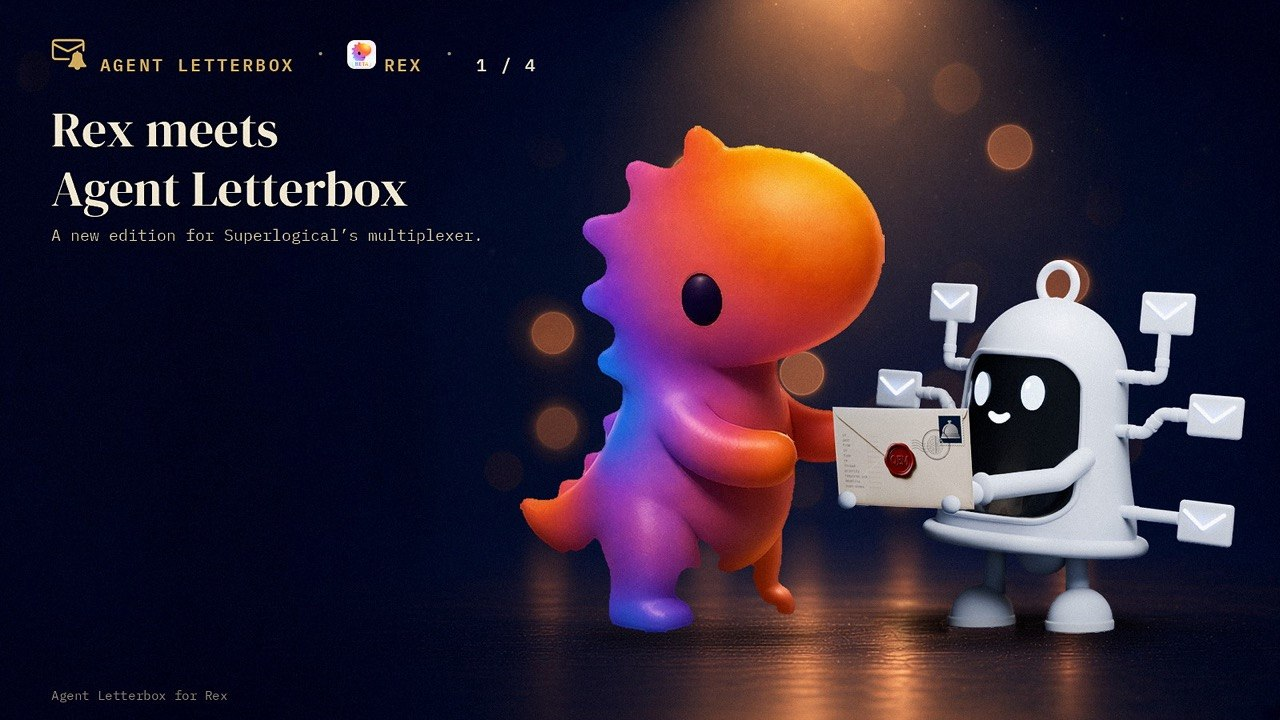
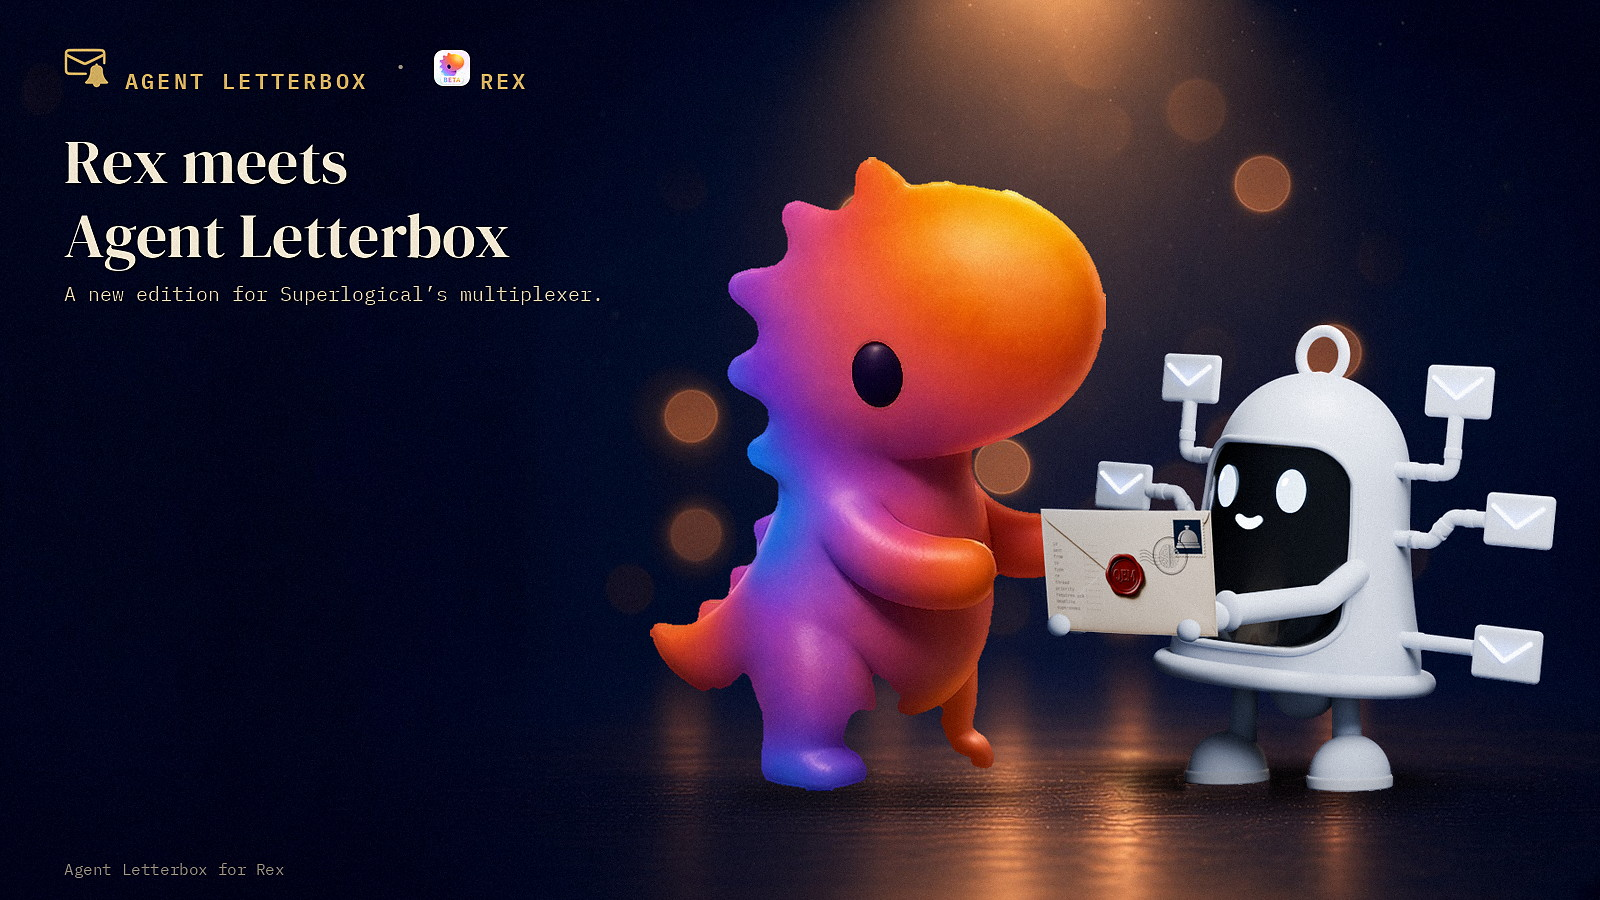
Replace the Rex hero stand-in with the clean picture.

diff --git a/README.md b/README.md
@@ -2,8 +2,6 @@
 
 ![A small orange-to-purple dinosaur hands a sealed letter to Bell, a white robot with envelope-shaped hands. The heading reads: Rex meets Agent Letterbox. A new edition for Superlogical's multiplexer.](assets/hero/rex-meets-letterbox.jpg)
 
-*Placeholder. The final picture replaces this file. This copy still shows a slide counter in the corner.*
-
 # Agent Letterbox for Rex
 
 ## Ring the bell. Create the team. Build the memories.
